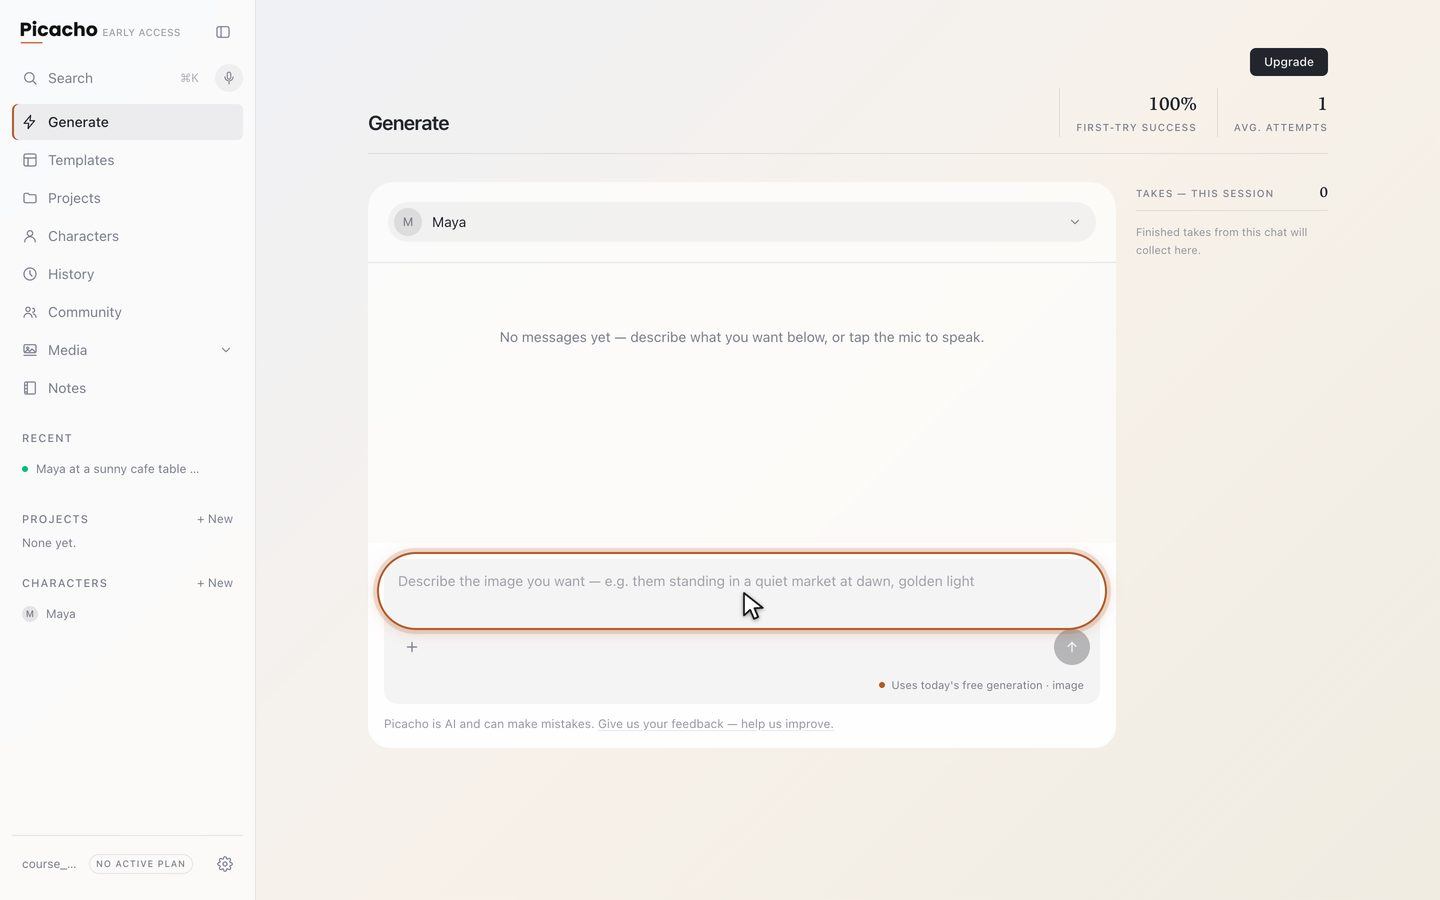
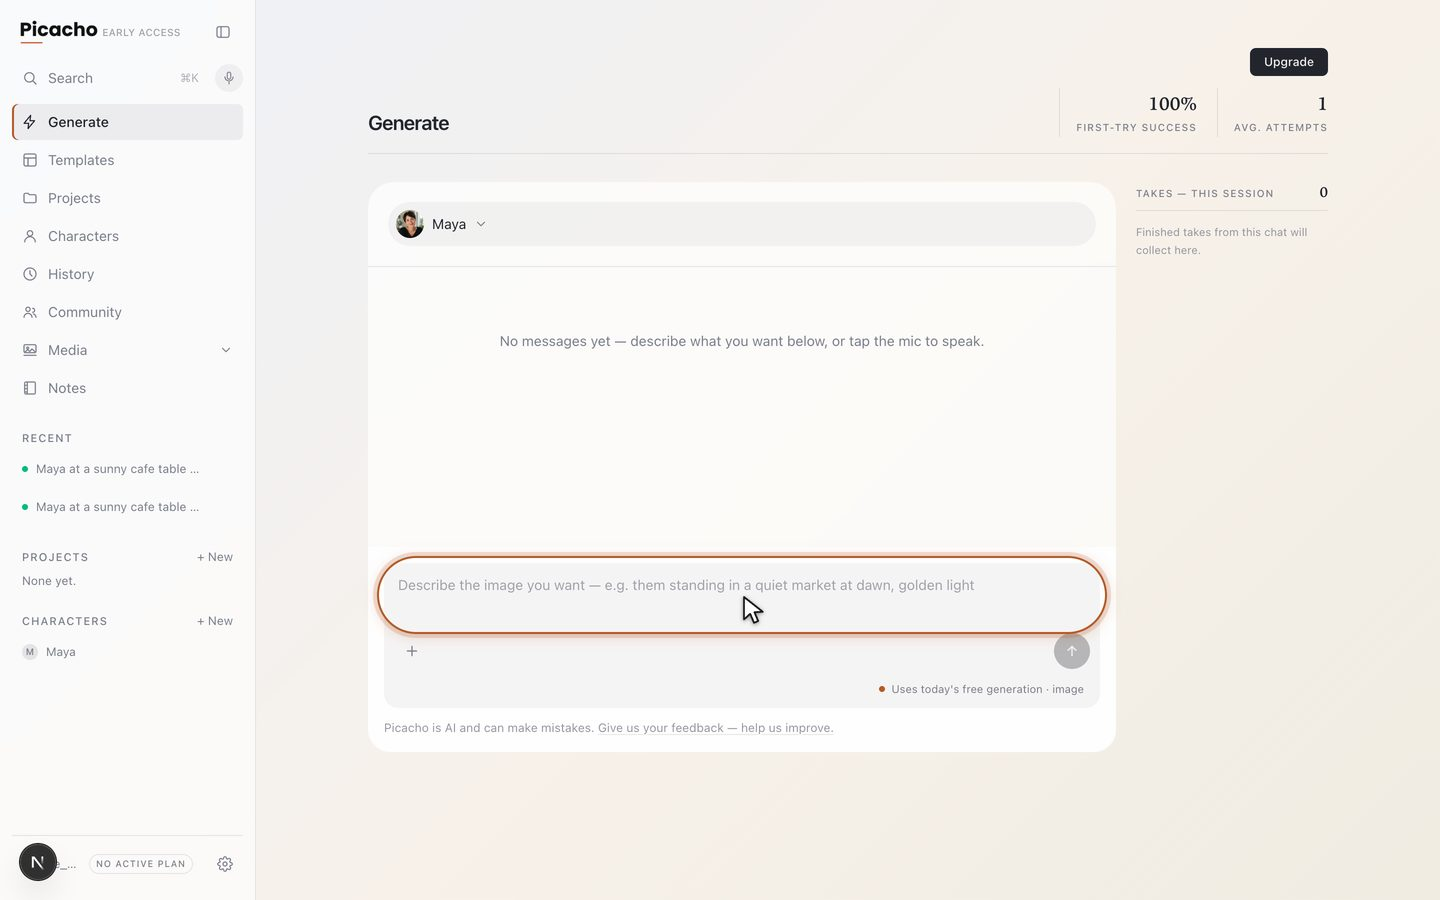
The two pickers become one Casting Bar (operator: 'Love it. Go with 1' on the round-3 mockups). Character segment | hairline | model segment | duration chips | stage toggle — one pill where two stacked full-width pills lived, returning a full row to the chat. Implementation kept both sheets untouche

diff --git a/src/components/generate-form.tsx b/src/components/generate-form.tsx
@@ -4172,7 +4172,7 @@ function GenerateFormInner({
   const castSize = (currentCharacter ? 1 : 0) + companionCharacterIds.length;
   const characterPicker =
     characters.length > 0 ? (
-      <div ref={characterMenuRef} data-tour-id="tour-character-select" className="relative">
+      <div ref={characterMenuRef} data-tour-id="tour-character-select" className="min-w-0">
         <button
           type="button"
           onClick={() => setCharacterMenuOpen((v) => !v)}
@@ -4180,9 +4180,11 @@ function GenerateFormInner({
           aria-haspopup="listbox"
           aria-expanded={characterMenuOpen}
           className={cn(
-            // Borderless soft chip — same recipe as the input box (operator,
-            // 2026-08-21: "apply the same to Select Character").
-            "flex w-full items-center gap-2.5 rounded-full py-1.5 pl-1.5 pr-3.5 text-left transition-colors disabled:opacity-50",
+            // Casting Bar segment (2026-08-28, operator-approved direction
+            // 1 round 3): the pill became one segment of the shared bar —
+            // content-width, transparent until open/hover, the bar behind
+            // it carries the shape.
+            "flex min-w-0 items-center gap-2 rounded-full py-1 pl-1 pr-2.5 text-left transition-colors disabled:opacity-50",
             characterMenuOpen
               ? "bg-atelier-ink/[0.08]"
               : !characterId
@@ -4192,7 +4194,7 @@ function GenerateFormInner({
                   // character-less render without realising). Still never
                   // auto-picks — that rule stands.
                   "bg-atelier-accent/[0.09] hover:bg-atelier-accent/[0.14]"
-                : "bg-atelier-ink/[0.045] hover:bg-atelier-ink/[0.07]",
+                : "hover:bg-atelier-ink/[0.06]",
           )}
         >
           {isMultiCharacter ? (
@@ -4230,7 +4232,7 @@ function GenerateFormInner({
           )}
           <span
             className={cn(
-              "min-w-0 flex-1 truncate text-sm",
+              "min-w-0 max-w-[5.5rem] truncate text-sm sm:max-w-[10rem]",
               currentCharacter ? "text-atelier-ink" : "text-atelier-muted",
             )}
           >
@@ -4255,7 +4257,7 @@ function GenerateFormInner({
           <div
             role="listbox"
             aria-multiselectable="true"
-            className="absolute left-0 top-full z-20 mt-1.5 w-full min-w-[280px] rounded-[16px] bg-atelier-surface p-2.5 shadow-[0_0_0_1px_var(--frost-ring),0_24px_48px_-12px_rgba(0,0,0,0.25)] backdrop-blur-xl"
+            className="absolute left-0 right-0 top-full z-20 mt-2 rounded-[16px] bg-atelier-surface p-2.5 shadow-[0_0_0_1px_var(--frost-ring),0_24px_48px_-12px_rgba(0,0,0,0.25)] backdrop-blur-xl"
           >
             <div className="flex gap-2.5 overflow-x-auto pb-1">
               {characters.map((c) => {
@@ -4385,7 +4387,7 @@ function GenerateFormInner({
 
   const videoModelPicker =
     contentType === "video" && videoModels.length > 1 ? (
-      <div ref={videoModelMenuRef} data-tour-id="tour-video-model" className="relative min-w-0 flex-1">
+      <div ref={videoModelMenuRef} data-tour-id="tour-video-model" className="min-w-0 flex-1">
         <button
           type="button"
           onClick={() => {
@@ -4397,13 +4399,16 @@ function GenerateFormInner({
           aria-expanded={videoModelMenuOpen}
           className={cn(
             // Borderless soft chip — matches the character select above.
-            "flex w-full items-center gap-2 rounded-full py-1.5 pl-3 pr-3.5 text-left transition-colors disabled:opacity-50",
-            videoModelMenuOpen ? "bg-atelier-ink/[0.08]" : "bg-atelier-ink/[0.045] hover:bg-atelier-ink/[0.07]",
+            "flex w-full min-w-0 items-center gap-1.5 rounded-full py-1 pl-2 pr-2 text-left transition-colors disabled:opacity-50 sm:gap-2 sm:pl-2.5 sm:pr-2.5",
+            videoModelMenuOpen ? "bg-atelier-ink/[0.08]" : "hover:bg-atelier-ink/[0.06]",
           )}
         >
-          <span className="min-w-0 flex-1 truncate text-sm text-atelier-ink">{currentVideoModel?.name}</span>
+          <span className="min-w-[52px] flex-1 truncate text-sm font-medium text-atelier-ink">{currentVideoModel?.name}</span>
           {currentDurationCredits > 1 && (
-            <span className="flex-shrink-0 rounded-full bg-atelier-accent/10 px-2 py-0.5 font-numeral text-[11px] font-medium tabular-nums text-atelier-accent">
+            // Hidden on phone widths: the bar can't fit name + price +
+            // durations there, and the price still lives in the menu rows,
+            // the duration tooltips, and the credit strip before send.
+            <span className="hidden flex-shrink-0 rounded-full bg-atelier-accent/10 px-2 py-0.5 font-numeral text-[11px] font-medium tabular-nums text-atelier-accent sm:inline-flex">
               {formatMsg(g.creditsEach, { n: currentDurationCredits })}
             </span>
           )}
@@ -4418,8 +4423,35 @@ function GenerateFormInner({
         {videoModelMenuOpen && (
           <div
             role="listbox"
-            className="absolute left-0 top-full z-20 mt-1.5 w-full min-w-[260px] overflow-y-auto rounded-[14px] bg-atelier-surface p-1.5 shadow-[0_0_0_1px_var(--frost-ring),0_24px_48px_-12px_rgba(0,0,0,0.25)] backdrop-blur-xl"
+            className="absolute left-0 right-0 top-full z-20 mt-2 overflow-y-auto rounded-[14px] bg-atelier-surface p-1.5 shadow-[0_0_0_1px_var(--frost-ring),0_24px_48px_-12px_rgba(0,0,0,0.25)] backdrop-blur-xl"
           >
+            {/* Phone widths: the duration chips live here instead of the
+                bar (the bar can't fit name + durations at 390px — the
+                mock's stated trade: one extra tap for the rare duration
+                change on small screens). */}
+            {currentVideoModel && currentVideoModel.durations.length > 1 && (
+              <div className="mb-1 flex items-center gap-1 border-b border-atelier-rule/70 px-1 pb-1.5 pt-0.5 sm:hidden">
+                {currentVideoModel.durations.map((d) => (
+                  <button
+                    key={d.seconds}
+                    type="button"
+                    onClick={() => setVideoDurationSeconds(d.seconds)}
+                    aria-pressed={videoDurationSeconds === d.seconds}
+                    className={cn(
+                      "rounded-full px-2.5 py-1 text-xs font-medium transition-colors",
+                      videoDurationSeconds === d.seconds
+                        ? "bg-atelier-ink text-atelier-paper"
+                        : "text-atelier-muted hover:text-atelier-ink",
+                    )}
+                  >
+                    {formatMsg(g.durationSecondsShort, { n: d.seconds })}
+                  </button>
+                ))}
+                <span className="ml-auto pr-1 font-numeral text-[11px] tabular-nums text-atelier-accent">
+                  {formatMsg(g.creditsEach, { n: currentDurationCredits })}
+                </span>
+              </div>
+            )}
             {(() => {
               const featuredIds = FEATURED_VIDEO_MODEL_IDS as readonly string[];
               const featured = videoModels.filter((m) => featuredIds.includes(m.id));
@@ -4498,7 +4530,7 @@ function GenerateFormInner({
     // Hidden while a storyboard is on: per-shot durations rule there, and a
     // dead global picker would just invite a click that does nothing.
     contentType === "video" && !storyboardActive && currentVideoModel && currentVideoModel.durations.length > 1 ? (
-      <div className="flex flex-shrink-0 items-center gap-1 rounded-full border border-atelier-rule p-1">
+      <div className="hidden flex-shrink-0 items-center gap-0.5 rounded-full p-0.5 sm:flex">
         {currentVideoModel.durations.map((d) => (
           <button
             key={d.seconds}
@@ -4508,7 +4540,7 @@ function GenerateFormInner({
             aria-pressed={videoDurationSeconds === d.seconds}
             title={formatMsg(g.durationCredits, { n: d.creditWeight })}
             className={cn(
-              "rounded-full px-2.5 py-1 text-xs font-medium transition-colors disabled:opacity-50",
+              "rounded-full px-2 py-1 text-xs font-medium transition-colors disabled:opacity-50 sm:px-2.5",
               videoDurationSeconds === d.seconds
                 ? "bg-atelier-ink text-atelier-paper"
                 : "text-atelier-muted hover:text-atelier-ink",
@@ -4675,7 +4707,21 @@ function GenerateFormInner({
           </div>
         )}
 
-        {characterPicker}
+        {/* The Casting Bar (2026-08-28): character segment | model segment
+            | durations | stage expand — one pill instead of two stacked
+            rows. The wrapper is the positioning context, so both sheets
+            drop bar-wide beneath it. */}
+        <div className="relative">
+          <div className="flex items-center gap-1 rounded-full bg-atelier-ink/[0.045] p-1">
+            {characterPicker}
+            {videoModelPicker && <span aria-hidden className="h-5 w-px flex-shrink-0 bg-atelier-rule" />}
+            {videoModelPicker}
+            {videoDurationPicker}
+            {(videoModelPicker || videoDurationPicker) && (
+              <span className="flex-shrink-0 pr-1">{stageExpandButton}</span>
+            )}
+          </div>
+        </div>
         {referencePhotos.length > 1 && videoAdvancedMode === "none" && !isMultiCharacter && (
           <div>
             <p className="text-[11px] font-medium uppercase tracking-widest text-atelier-muted">
@@ -4712,13 +4758,6 @@ function GenerateFormInner({
           <p className="text-xs text-red-500">
             {formatMsg(g.multiCharacterNeedsPhoto, { name: castMemberMissingPhoto.name })}
           </p>
-        )}
-        {(videoModelPicker || videoDurationPicker) && (
-          <div className="flex items-center gap-2">
-            {videoModelPicker}
-            {videoDurationPicker}
-            <div className="ml-auto">{stageExpandButton}</div>
-          </div>
         )}
         {/* Send Receipt, tucked directly under the model selector (operator,
             2026-08-26: the floating placement read as banner clutter). Video

diff --git a/src/lib/changelog.ts b/src/lib/changelog.ts
@@ -41,7 +41,7 @@ export const RELEASES: Release[] = [
       "A generated character photo can no longer be lost to the unpressed Save button (the operator lost a whole Perspective set to it — recovered): on an existing character, every AI-generated reference photo — including each Perspective shot as it lands — now saves itself to the character the moment it exists, since a photo that cost an allowance must never depend on remembering a button. And for everything that still legitimately needs Save (renames, trait edits, removals, fresh uploads), leaving the page now asks first instead of silently discarding the work.",
       "Two phone-app paper cuts, both reported with screenshots and both gone: pages no longer open scrolled to wherever the LAST page was (the app's scroller kept its position across navigations — every route now arrives at the top), and the ugly gray play-button placeholder Android paints over videos that haven't loaded yet can never appear again — an unloaded video tile now shows the app's own quiet dark ground with a soft play disc, and the real footage fades in the moment its first frame is ready. The same treatment covers the expanded views — the full-screen community player, the media lightbox, and History — where an opening video now shows a quiet loading ring instead of that placeholder.",
       "The presets row learned categories — Camera and Light & looks tabs untangle the nineteen cinema presets, and behind the curtain eighteen NEW drafted blocks landed dormant: eight lighting presets (candlelight, window light, Rembrandt, blue hour, hard sun, ring light, backlit, studio softbox) and ten FX presets (explosion walk, smoke reveal, lightning, glitch teleport, rain burst, fire aura, levitation, confetti, time freeze, product reveal — face-morph effects excluded by design on a platform whose promise is the face). Every draft is invisible in the composer, refused server-side, and exempt from nothing: the moment each earns its validation render it flips visible with the proof clip as its chip. Approved with fal balance low — built now, proven later. And presets learned to STACK: one pick per category rides together — crash zoom plus golden hour is one send — with the blocks compiling in fixed craft order (camera, then light, then FX) no matter the tapping order.",
-      "The composer's two pickers grew up (operator: seeing them daily 'feels unfinished and doesn't fit the work we've done'): the character dropdown became the casting sheet — the cast wall in miniature, portrait cards with each character's real photo, name and lock meter, ochre ring and check for selection, a dashed New-character card and a Manage-cast link, same one-tap multi-select semantics as before — and the character pill now wears the character's actual face instead of an initial. The model menu became cleaner cards — one-line job, price chip, ochre-ringed selection (a round of model thumbnails was tried and removed the same day: the operator judged images irrelevant for picking an engine, and he was right). The course's two menu screenshots were reshot the same hour.",
+      "The composer's two pickers grew up (operator: seeing them daily 'feels unfinished and doesn't fit the work we've done'): the character dropdown became the casting sheet — the cast wall in miniature, portrait cards with each character's real photo, name and lock meter, ochre ring and check for selection, a dashed New-character card and a Manage-cast link, same one-tap multi-select semantics as before — and the character pill now wears the character's actual face instead of an initial. The model menu became cleaner cards — one-line job, price chip, ochre-ringed selection (a round of model thumbnails was tried and removed the same day: the operator judged images irrelevant for picking an engine, and he was right). Then the two pickers merged into ONE: the Casting Bar — character segment, hairline, model segment, durations and the stage toggle in a single pill, returning a full row of space to the chat (on phones, where the bar can't fit everything, the duration chips move to the top of the model menu — one extra tap for the rare change). Twelve course screenshots reshot across the day as the composer evolved under them.",
       "Google Play: the organization verification cleared ('account in good standing') — the production release submitted Aug 21 is now genuinely in Google's review queue, with the launch playbook armed for the moment it flips live.",
     ],
   },

diff --git a/src/app/guides/getting-started/page.tsx b/src/app/guides/getting-started/page.tsx
@@ -367,8 +367,8 @@ const CHAPTERS: Chapter[] = [
         body: (
           <>
             From the dashboard choose <b>Create a video</b>, or switch inside the composer — the
-            model row appears under the character selector, with the price per clip and the duration
-            choices.
+            model joins your character in the bar at the top, with the price per clip and the
+            duration choices riding alongside.
           </>
         ),
       },
@@ -405,8 +405,8 @@ const CHAPTERS: Chapter[] = [
         title: "Duration and shape",
         body: (
           <>
-            Pick the clip length on the model row (each model shows its own options — Seedance goes
-            to 30s). For the aspect ratio, click the small <b>chevron</b> next to send: the advanced
+            Pick the clip length right on the bar (each model shows its own options — Seedance goes
+            to 30s; on the phone the chips sit at the top of the model menu). For the aspect ratio, click the small <b>chevron</b> next to send: the advanced
             row unfolds with the frame shapes — landscape for YouTube, portrait for Reels and TikTok
             — and a line for spoken dialogue. Then describe the scene and send, exactly like an
             image.
